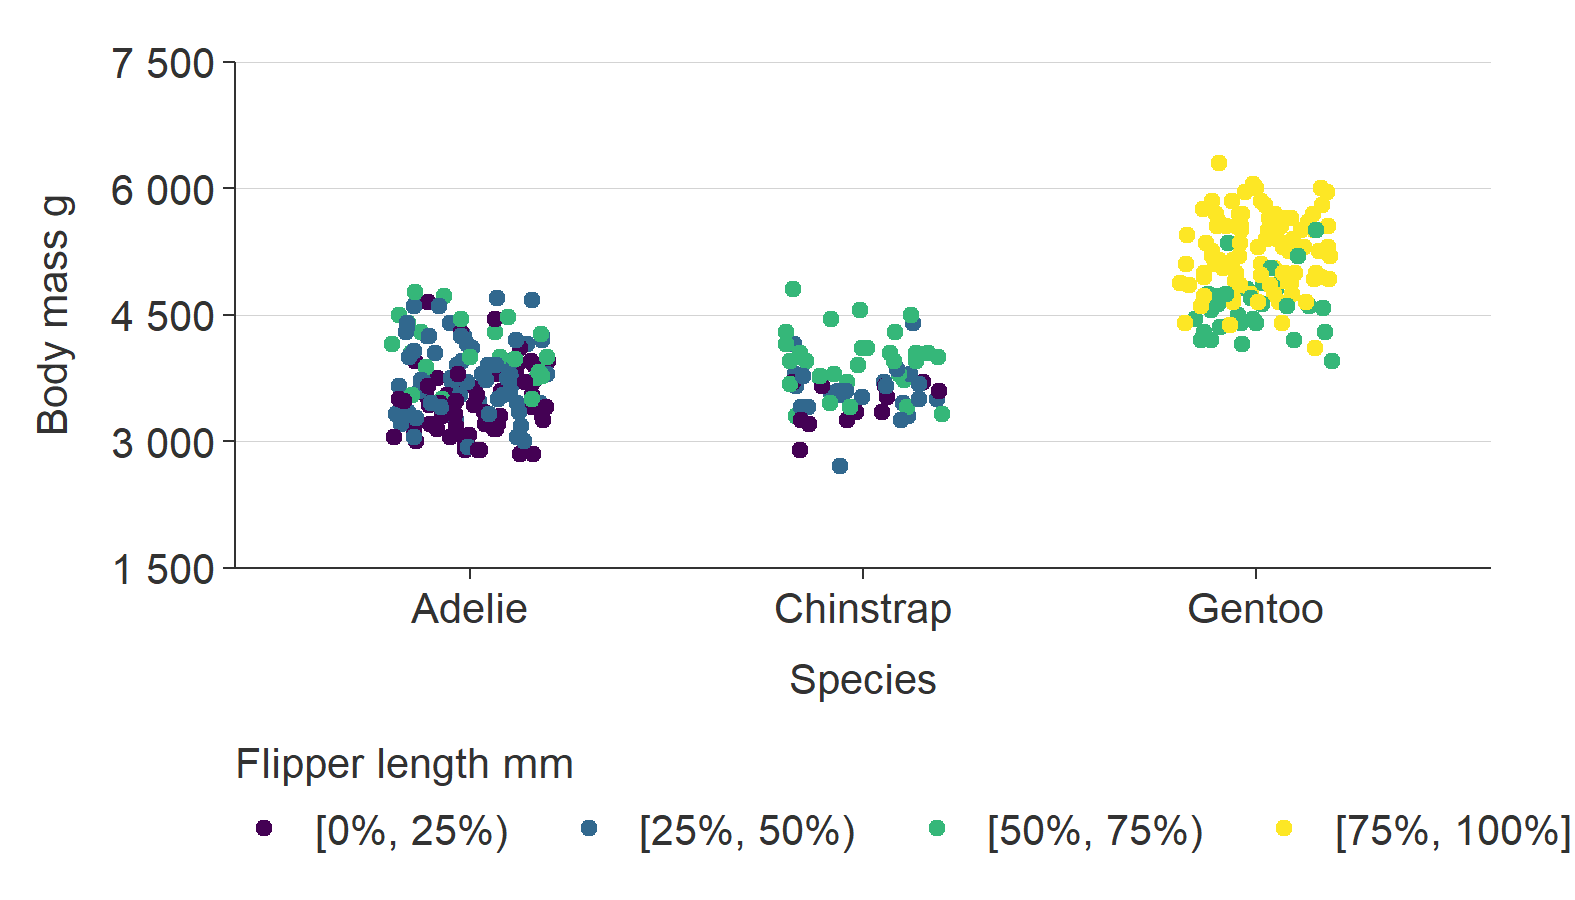
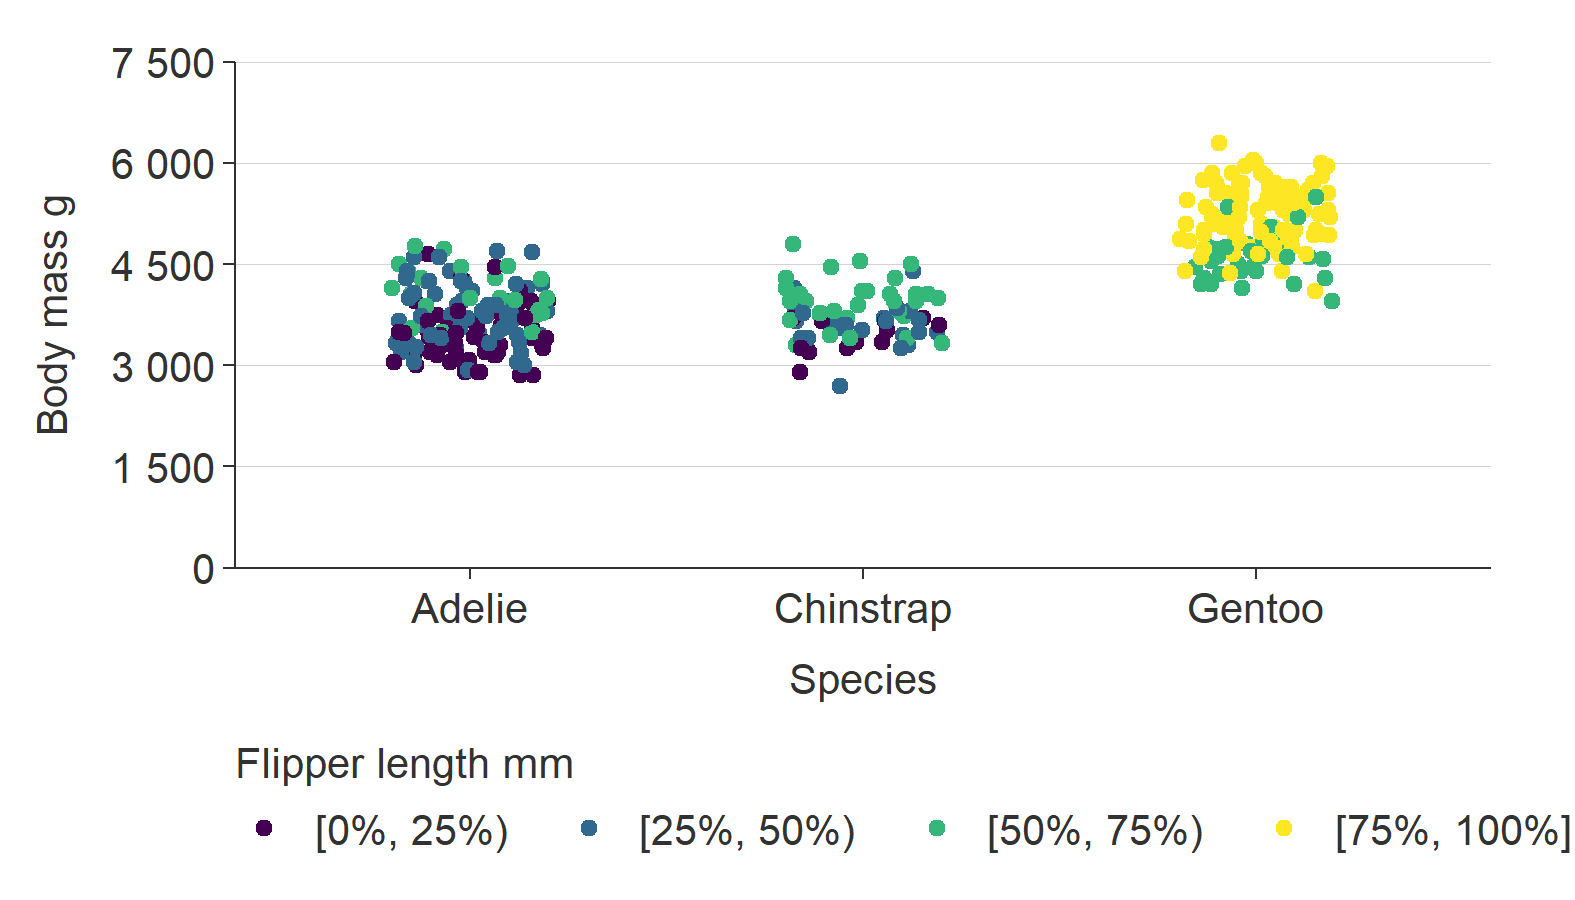
Update README

diff --git a/README.md b/README.md
@@ -65,7 +65,6 @@ Click [here](https://davidhodge931.github.io/ggblanket/) for the
 library(dplyr)
 library(ggplot2)
 library(ggblanket)
-library(snakecase)
 library(palmerpenguins)
 ```
 
@@ -131,23 +130,22 @@ storms %>%
   gg_col(
     x = year,
     y = wind,
-    y_include = 0,
     title = "Storm wind speed",
     subtitle = "USA average storm wind speed, 1980\u20132020",
-    x_title = "Year",
     y_title = "Wind speed (knots)",
-    caption = "Source: NOAA",
-    theme = gg_theme(y_grid = TRUE)
+    caption = "Source: NOAA"
   ) 
 ```
 
 ![](man/figures/README-unnamed-chunk-7-1.png)<!-- -->
 
-5.  {ggblanket} provides prefixed arguments for customisable scale
+6.  {ggblanket} provides prefixed arguments for customisable scale
     adjustment.
 
 This is designed to work with the Rstudio autocomplete to help you find
-the adjustment you need.
+the adjustment you need. Press the tab key after typing `x_`,`y_`,
+`col_` or `facet_` to access this. Then use arrow keys, and press tab
+again to select.
 
 Available arguments are `*_limits`, `*_expand`, `*_labels`, `*_breaks`,
 `*_include`, and `col_intervals` arguments.
@@ -158,12 +156,13 @@ penguins %>%
     x = species,
     y = body_mass_g,
     col = flipper_length_mm,
-    position = position_jitter(width = 0.2, height = 0, seed = 123), 
+    position = ggplot2::position_jitter(width = 0.2, height = 0, seed = 123), 
     col_intervals = ~ santoku::chop_quantiles(.x, probs = seq(0, 1, 0.25)),
     col_legend_place = "b",
+    y_include = 0,
     y_breaks = scales::breaks_width(1500), 
     y_labels = scales::label_number()
-    )
+  )
 ```
 
 ![](man/figures/README-unnamed-chunk-8-1.png)<!-- -->
@@ -177,9 +176,9 @@ penguins %>%
   group_by(species, sex, island) %>%
   summarise(body_mass_kg = mean(body_mass_g) / 1000) %>%
   gg_col(x = body_mass_kg, y = species, col = sex, facet = island,
-    position = "dodge", 
-    col_legend_place = "b", 
-    col_labels = to_sentence_case)
+         col_labels = stringr::str_to_sentence, 
+         position = "dodge", 
+         col_legend_place = "b")
 ```
 
 ![](man/figures/README-unnamed-chunk-9-1.png)<!-- -->
@@ -192,14 +191,14 @@ penguins %>%
   group_by(species, sex) %>%
   summarise(across(body_mass_g, ~ round(mean(.x, na.rm = TRUE)), 0)) %>% 
   gg_tile(sex, species, col = body_mass_g, 
-          x_labels = to_sentence_case,
+          x_labels = snakecase::to_sentence_case,
           pal = pals::brewer.blues(9),
           width = 0.9, 
           height = 0.9, 
           title = "Average penguin body mass",
           subtitle = "Palmer Archipelago, Antarctica",
           theme = gg_theme(pal_axis = "#ffffff", pal_ticks = "#ffffff")) +
-  geom_text(aes(label = body_mass_g), col = "#232323") 
+  geom_text(aes(label = body_mass_g), col = "#232323", size = 3.5) 
 ```
 
 ![](man/figures/README-unnamed-chunk-10-1.png)<!-- -->

diff --git a/NEWS.md b/NEWS.md
@@ -1,6 +1,5 @@
 # ggblanket 1.1.9000
 
-* Removed `lsize` argument, in anticipation of ggplot2 3.4.0.
 * Modified default `x_breaks` for when both x and y are numeric or date.
 * Added support for `*_breaks` to receive a function.
 * Added `*_trans` argument.
@@ -9,6 +8,8 @@
 * Provided support for `ggplotly`.
 * Added new `add_tooltip_text` function.
 * Added new `titles` argument to apply a function across titles.
+* Support `gg_` functions working with more unusual stats.
+* Removed `size` argument, in anticipation of ggplot2 3.4.0.
 * Updated `gg_theme` title vjust and margins.
 
 # ggblanket 1.1.0
